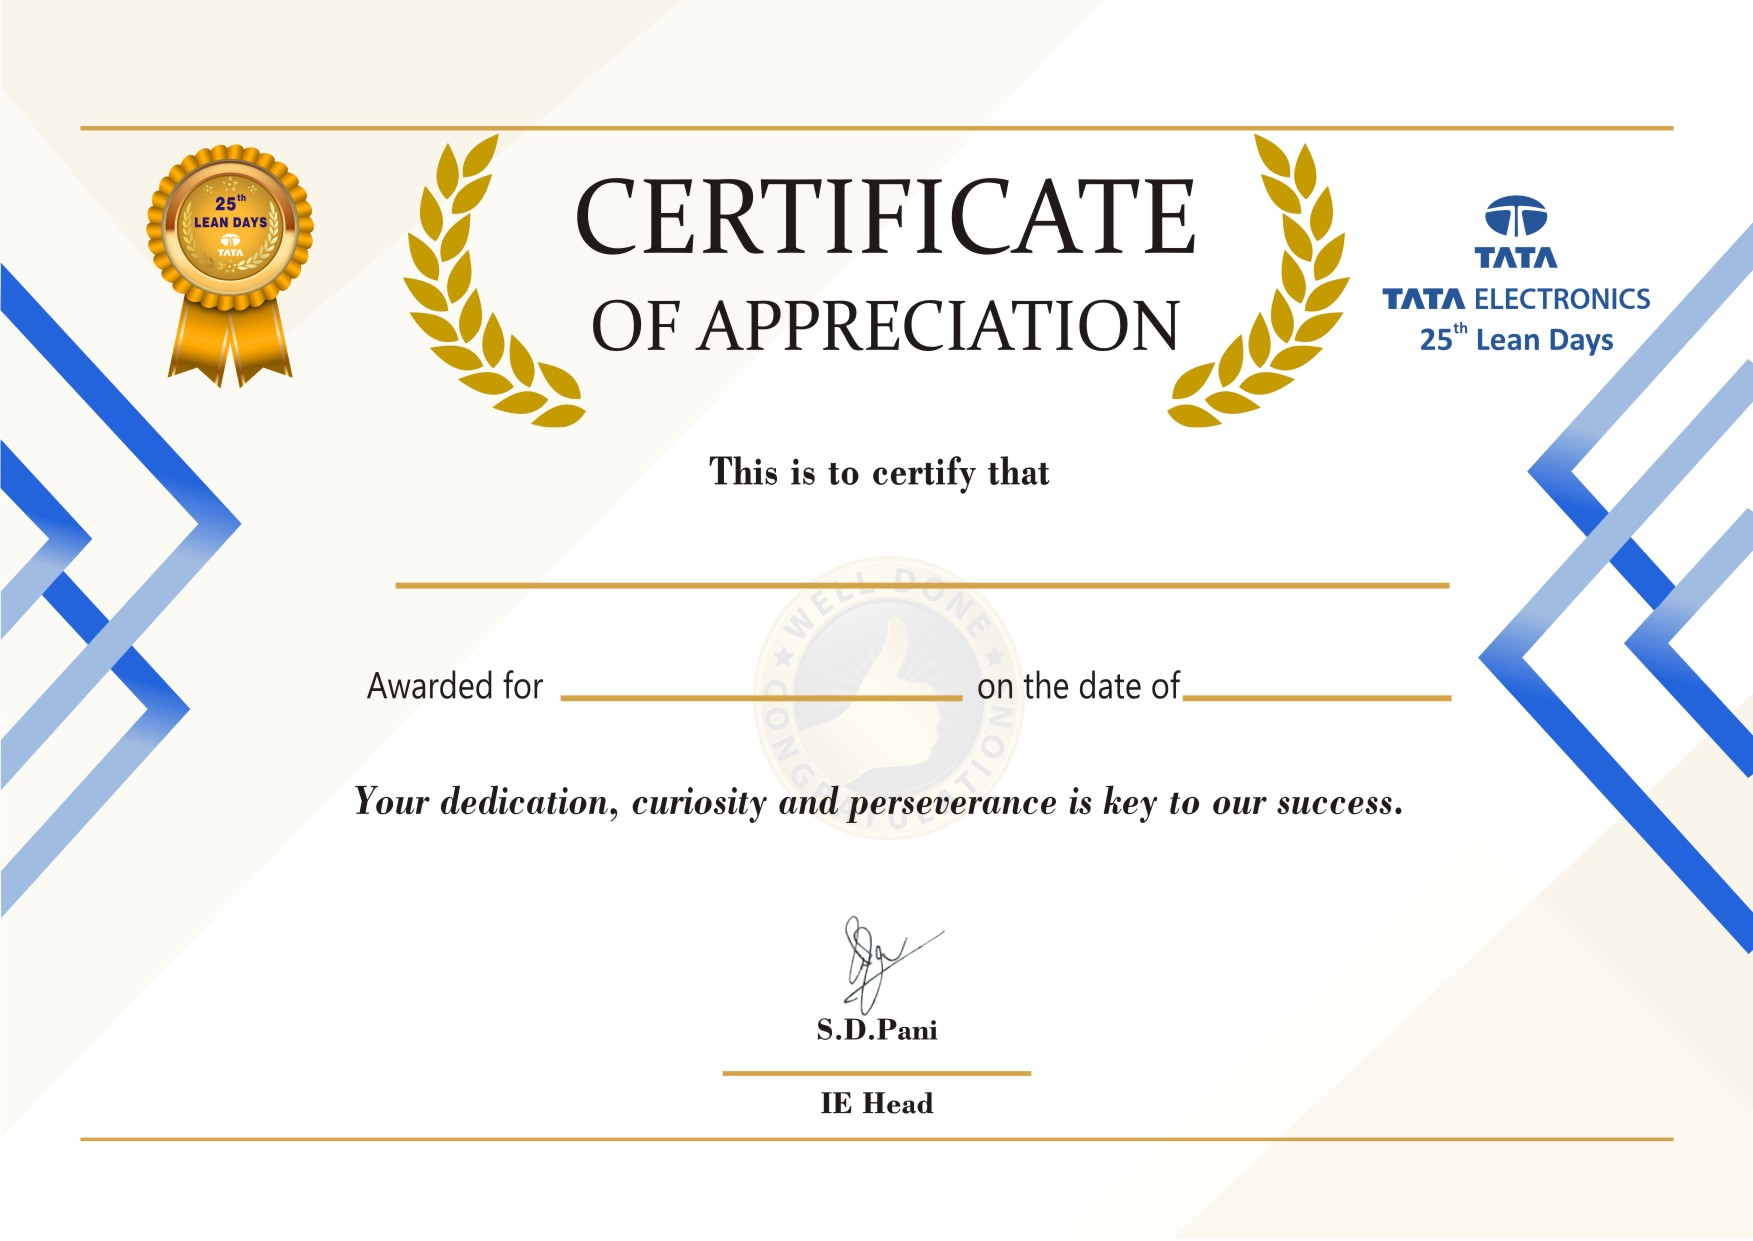
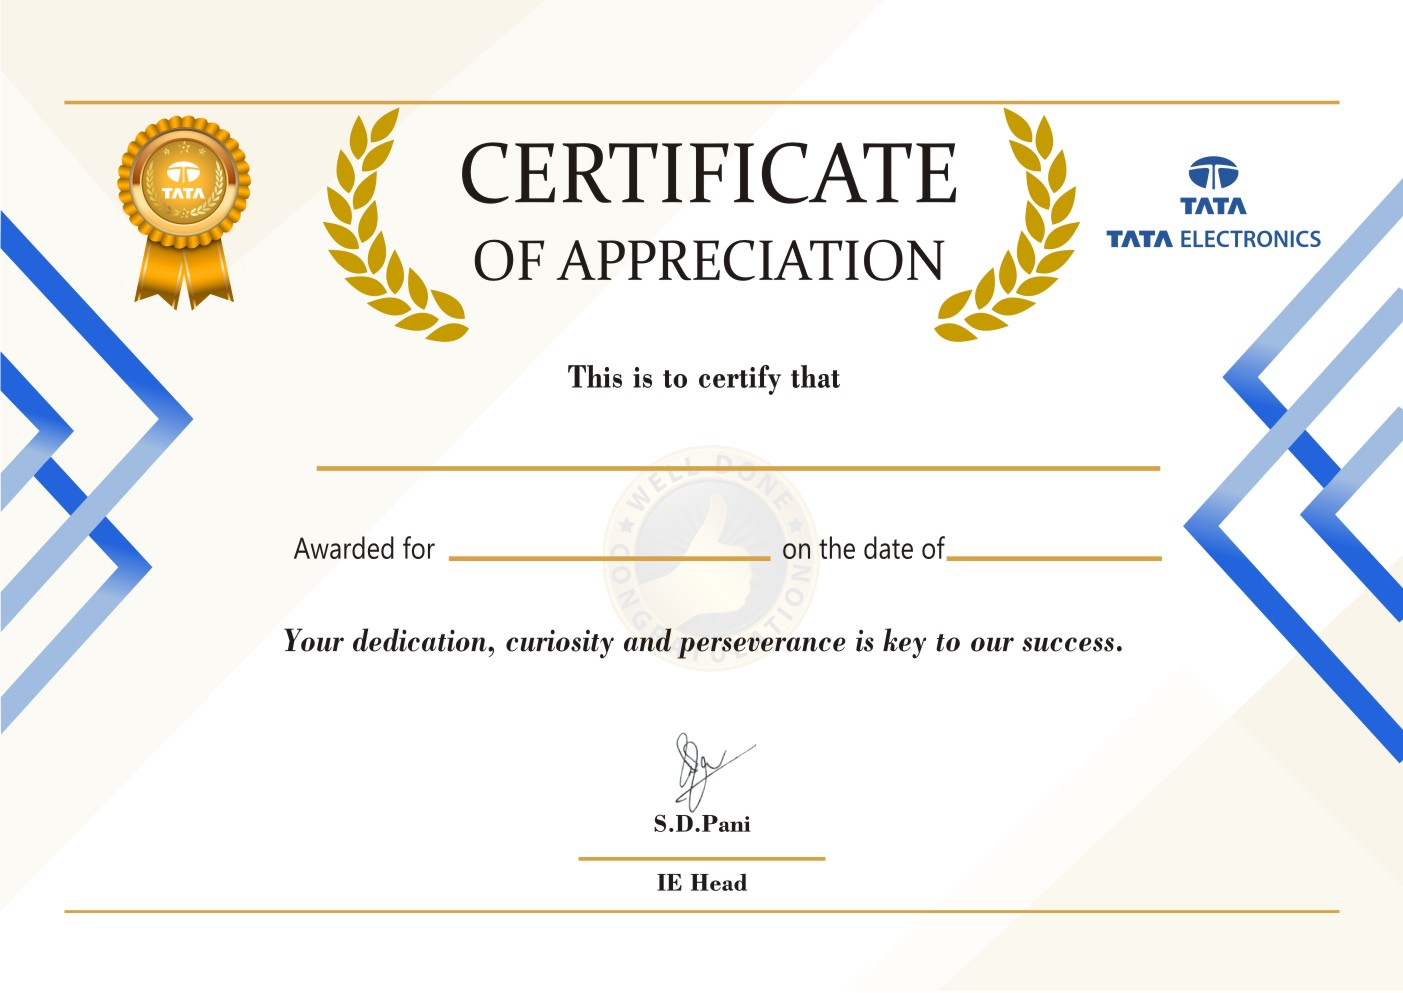
Certificate Changes

diff --git a/Kaizen.Web/Controllers/CreateKaizenController.cs b/Kaizen.Web/Controllers/CreateKaizenController.cs
@@ -584,24 +584,24 @@ namespace Kaizen.Web.Controllers
         public IActionResult DownloadCertificate(string OriginatedByName,string OriginatedByDept)
         {
             //model.name = System.Text.Json.JsonNamingPolicy.CamelCase.ConvertName(OriginatedByName); 
-            model.name = FirstLetterToUpper(OriginatedByName);
+            model.name = OriginatedByName.ToUpper();
             model.Department = OriginatedByDept;
             model.CertificateCreatedDate = DateTime.Now.ToString("dd/MM/yyyy");
             string imageFilePath = $"{Directory.GetCurrentDirectory()}{@"\wwwroot\assets\img\Tata Electronic Certificate.jpg"}";
             string imageFilePath1 = $"{Directory.GetCurrentDirectory()}{@"\wwwroot\assets\img\Tata Electronic CertificateNew.jpg"}";
             try
             {
-                PointF Title = new PointF(410f, 540f);
-                PointF firstLocation = new PointF(810f, 540f);
-                PointF secondLocation = new PointF(570f, 650f);
-                PointF thirdLocation = new PointF(1220f, 650f);
+                PointF Title = new PointF(315f, 436f);
+                PointF firstLocation = new PointF(670f, 436f);
+                PointF secondLocation = new PointF(450f, 530f);
+                PointF thirdLocation = new PointF(955f, 530f);
                 Bitmap bitmap = (Bitmap)Image.FromFile(imageFilePath);//load the image file
                 using (Graphics graphics = Graphics.FromImage(bitmap))
                 {
-                    using (Font arialFont = new Font("CalibriLight", 13))
+                    using (Font arialFont = new Font("CalibriLight", 13,FontStyle.Bold))
                     {
                         graphics.DrawString("Mr/Mrs  ", arialFont, Brushes.Black, Title);
-                        graphics.DrawString(model.name, arialFont, Brushes.Black, firstLocation);
+                        graphics.DrawString(model.name, arialFont, Brushes.Black,  firstLocation);
                     }
                     using (Font arialFont = new Font("CalibriLight", 10))
                     {
@@ -621,14 +621,6 @@ namespace Kaizen.Web.Controllers
             return File(bytes, "application/vnd.openxmlformats-officedocument.spreadsheetml.sheet", "AppreciationCertificate-" + model.name + ".jpg");
             //  return File(bytes, "image/jpg", imageFilePath1);
         }
-        public string FirstLetterToUpper(string str)
-        {
-            if (str == null)return null;
-            if (str.Length > 1)
-                return char.ToUpper(str[0]) + str.Substring(1);
-            return str.ToUpper();
-        }
-
 
 
 
